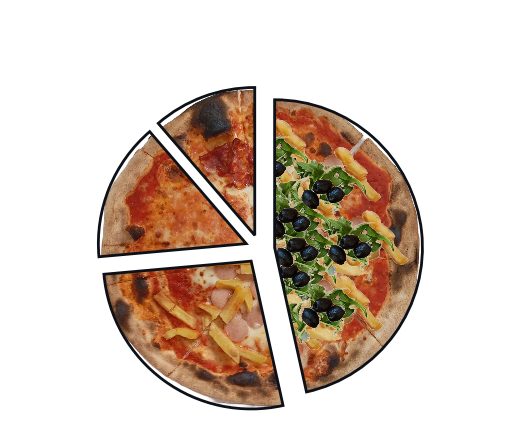
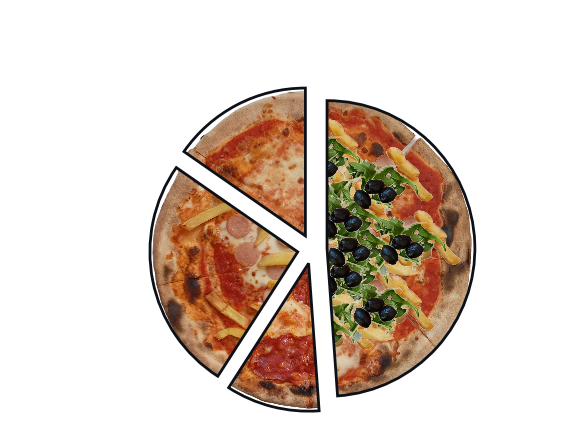
add placeholder images for unknown pizza or empty last month

diff --git a/src/pizza_chart/pizza_chart.py b/src/pizza_chart/pizza_chart.py
@@ -24,6 +24,8 @@ ASSETS_DIR = os.path.abspath(os.path.join(os.path.dirname(__file__),
                                           'assets')
                                           )
 
+DEFAULT_PIZZA_IMG = "margherita"
+
 def plot(order, title=None, cutoff=7.0, source='default', 
         show=True, theme='light', plt_style=None, textprops={}, wedgeprops={}):
     # Ensure correct data type
@@ -84,7 +86,14 @@ def plot(order, title=None, cutoff=7.0, source='default',
             _img_to_pie(fn, wedges[i], xy=(0.0, 0.0), zoom=0.225)
             wedges[i].set_zorder(10)
         except FileNotFoundError:
-            print("File {} not found, '{}' slice will appear as empty".format(fn, labels[i].lower()))
+            print("File {} not found, '{}' slice will appear as {}".format(fn, labels[i].lower(), DEFAULT_PIZZA_IMG))
+            fn = os.path.join(
+                ASSETS_DIR,
+                "pizzas",
+                "{}{}.png".format(prefix, DEFAULT_PIZZA_IMG.replace(" ", "_"))
+            )
+            _img_to_pie(fn, wedges[i], xy=(0.0, 0.0), zoom=0.225)
+            wedges[i].set_zorder(10)
             continue
     if show:
         # Plot the figure

diff --git a/scripts/pizza_report.py b/scripts/pizza_report.py
@@ -12,6 +12,21 @@ from pizza_chart import pizza_chart
 
 SHOW = False # set to True for debugging
 SOURCE = 'default'  # `default` or `custom`
+
+def get_or_empty_order(df_subset):
+    """
+    Generate an order from a dataframe subset.
+    If no data, returns a mock empty order for display.
+    """
+    if df_subset.empty:
+        return [('No pizza', 1)]
+    
+    order = []
+    for p in df_subset['Pizza'].unique(): 
+        order.append((p, 
+                     sum(df_subset['#'].loc[df_subset['Pizza']==p])
+                     ))
+    return order
                 
 if __name__ == '__main__':
     root = os.path.join(
@@ -62,11 +77,7 @@ if __name__ == '__main__':
                            now.strftime("%d/%m/%Y")
                             )
            )
-    order = []
-    for p in df_last_month['Pizza'].unique(): 
-        order.append((p, 
-                     sum(df_last_month['#'].loc[df_last_month['Pizza']==p])
-                     ))
+    order = get_or_empty_order(df_last_month)
     for theme in ['dark', 'light']:
         fig_last_time = pizza_chart.plot(order, show=False,
                                          title=title,
